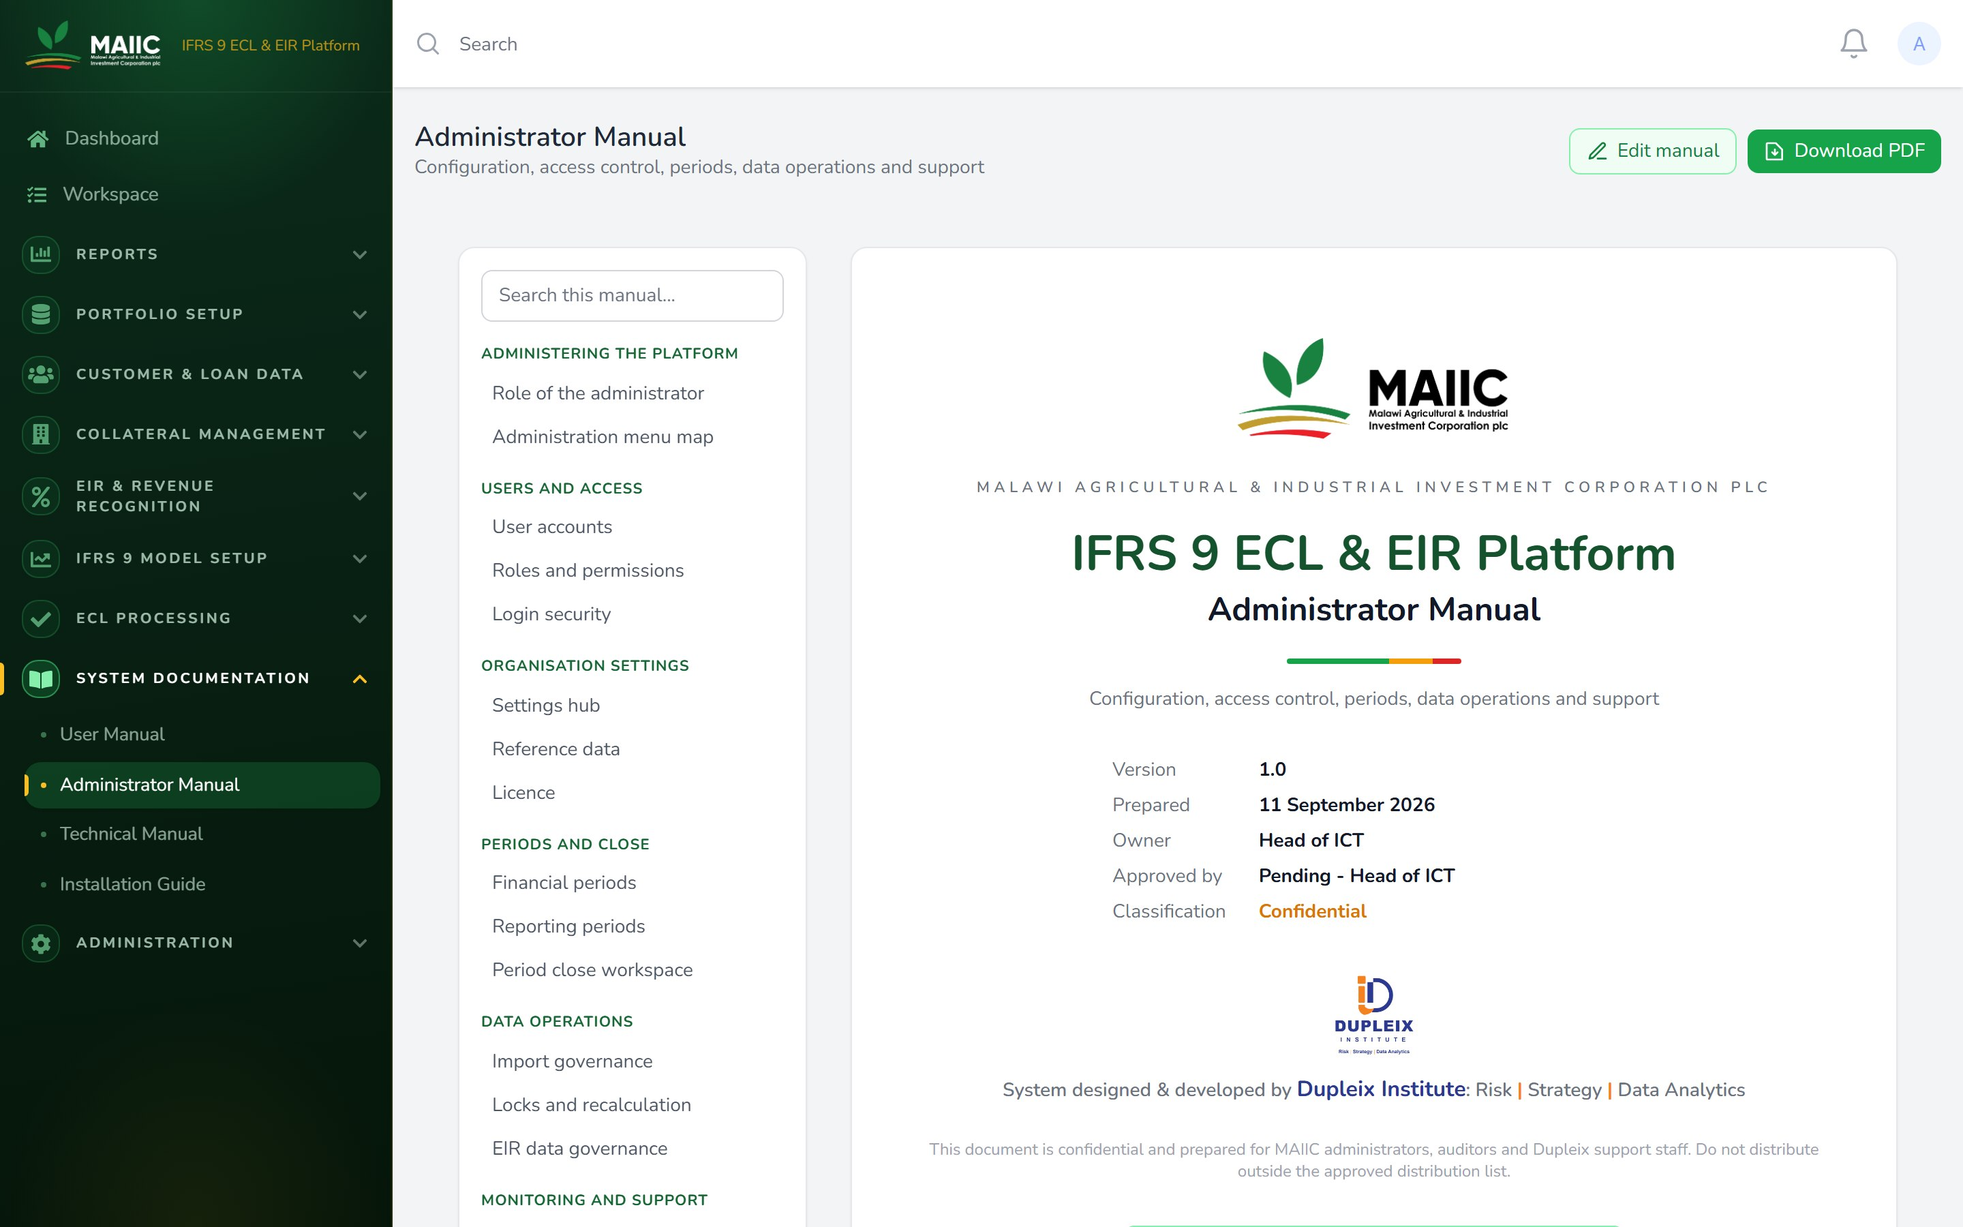
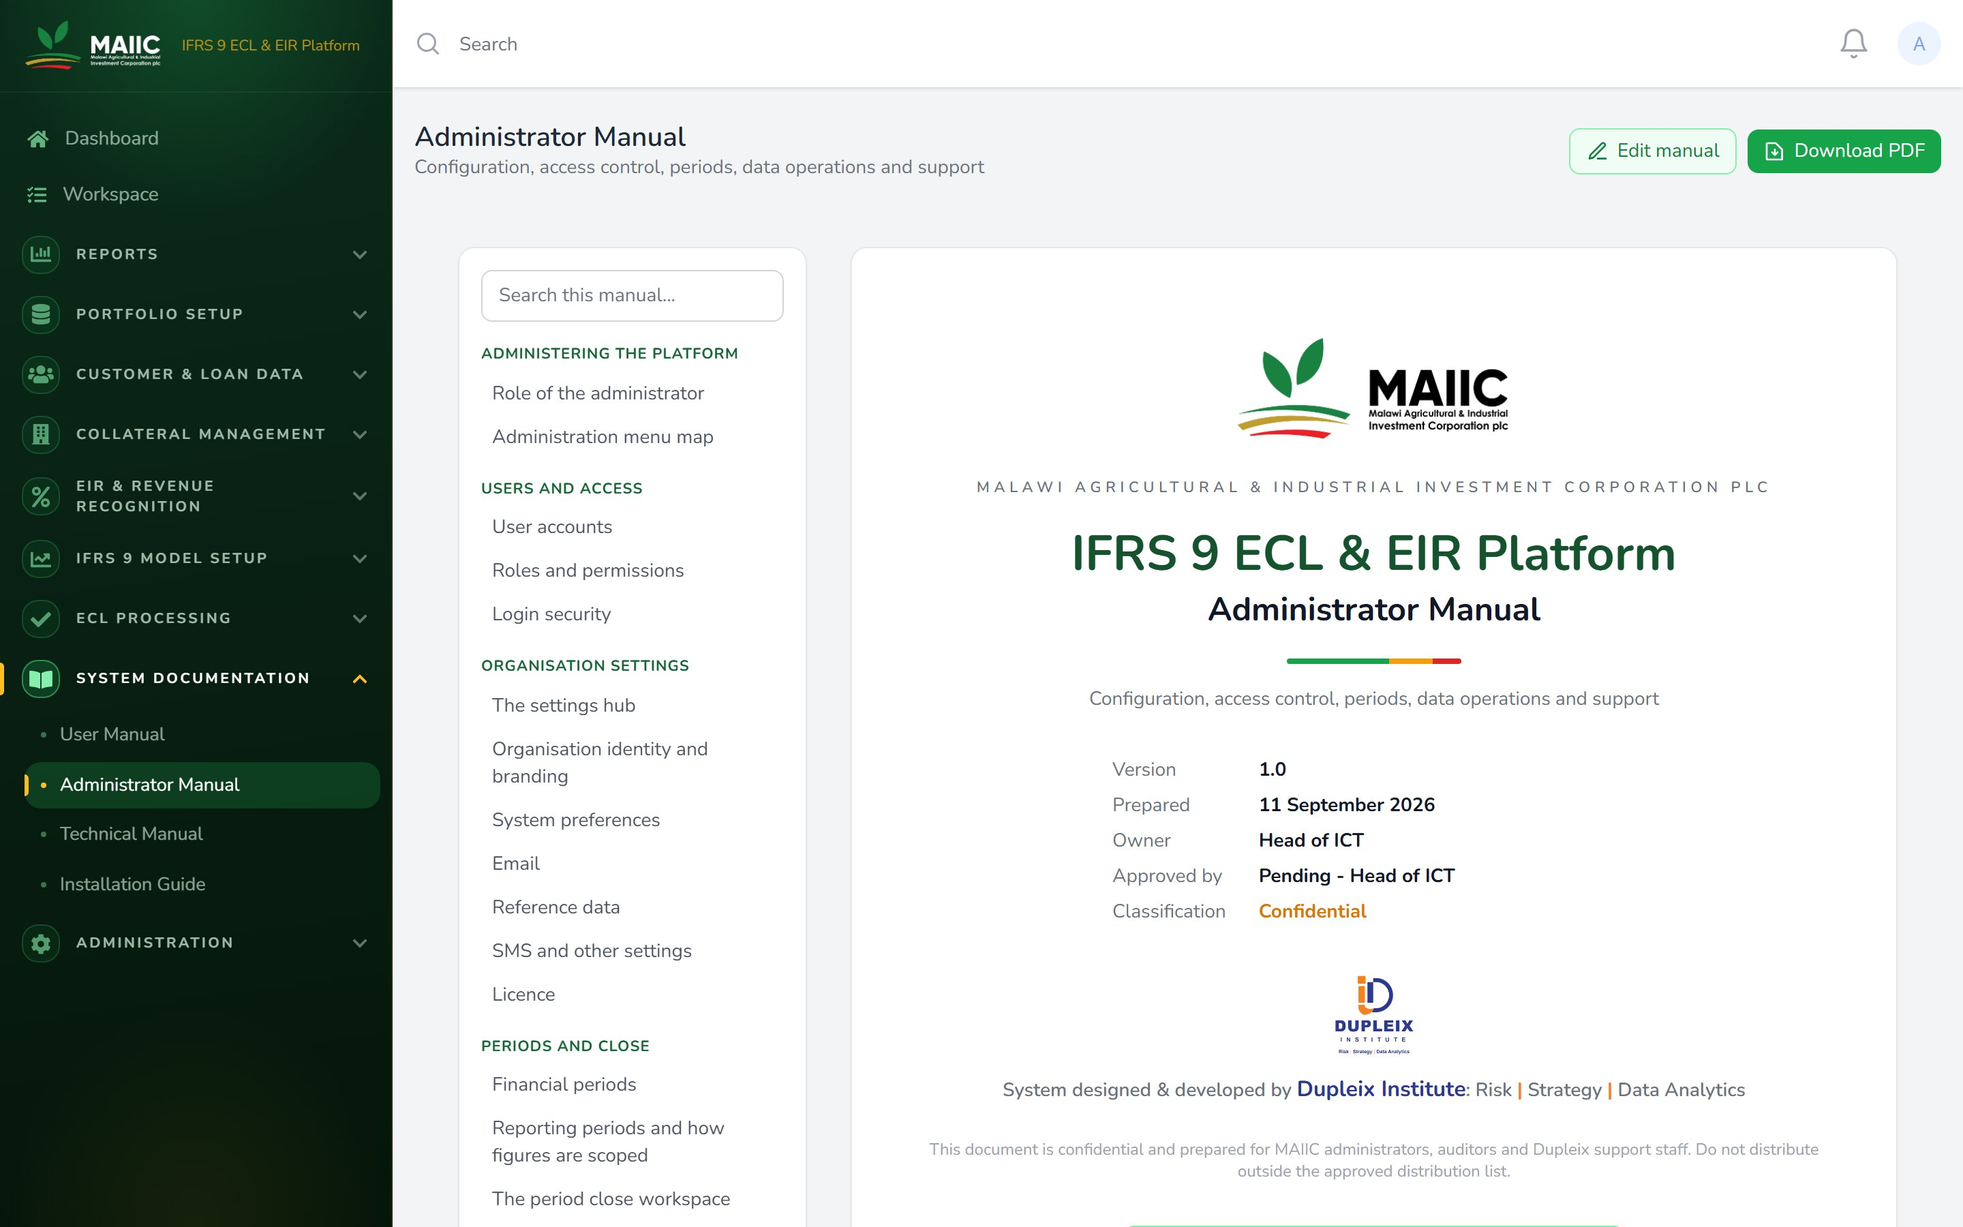
Give every captured screen a figure, and drop the one blank picture
Audited all 121 captured figures for blank content. One was blank:
sicr-customers. The cause was not a broken page but a wrong entry in the
capture list. sicr-triggers.customers is a JSON endpoint that feeds the
Customer ID drop-down, not a screen, so it photographed as a few words of
raw JSON on an empty canvas. Removed it from the capture list, deleted the
image, and dropped the figure from the SICR trigger article, which already
explains the drop-down in words.

The reverse gap was larger: 20 captured figures were never shown in either
manual. Fifteen were report screens whose family article described the
report by name but illustrated only one or two of them. Each report now
carries its own figure: portfolio trend, sector, product group, internal
grade and stage allocation; SICR trigger, ECL reconciliation and gross
movement; PD and agricultural credit risk mitigation; macro scenario; and
IFRS 9 versus RBM, NPL and arrears, concentration and cooperative linkage.

The other five had no article at all. Branches, legal types and banks are
now figures on the reference data article. SMS and Other settings get a new
Administrator Manual article, which says plainly that enabling SMS stores a
setting and sends nothing, and that the Other page holds one dormant link
to the legacy score bands scheduled for removal under ticket #009.

Every captured figure is now used, and no figure is blank. User Manual 75
[…]

Changed region(s): [[0.25, 0.56, 0.375, 0.9956]]

diff --git a/database/seeders/data/help_user_content/09-reports.php b/database/seeders/data/help_user_content/09-reports.php
@@ -41,7 +41,12 @@ return [
             'body' => '<p>Eight reports that answer the basic question: how much do we expect to lose, and where does it sit. All of them use one definition of exposure at default: the carrying amount plus any undrawn commitment multiplied by the utilisation rate.</p><ul><li><b>Executive Summary</b>. A one-page position: exposure, ECL, coverage and loan count as KPI tiles, then the split by stage, by portfolio and by exposure band, with the data-quality checks at the foot. Start here in a review meeting.</li><li><b>ECL Summary by Stage</b>. Total exposure, average probability of default, average loss given default and ECL for Stage 1, Stage 2 and Stage 3, with the totals row.</li><li><b>Portfolio ECL Trend</b>. ECL and coverage over time, split by portfolio, so you can see whether a movement is one segment or the whole book.</li><li><b>ECL by Sector</b>. Exposure, probability, loss rate and ECL by economic sector, matching the sector concentration disclosure in the annual report.</li><li><b>ECL by Product Group</b>. The same view by lending product group.</li><li><b>ECL by Internal Grade</b>. The A to G master scale with the exposure, average probability, average loss rate and ECL in each grade. The bands are A up to 2 per cent, B to 5, C to 10, D to 20, E to 40, F to 100 and G for default.</li><li><b>Account-Level ECL Calculation</b>. The loan-by-loan calculation trail: exposure, probability, loss rate, the multiplication, and the ECL actually booked, for the two hundred largest exposures. This is the report an auditor asks for when they want to re-perform the arithmetic.</li><li><b>Stage Allocation</b>. How every exposure was classified into Stage 1, 2 or 3, with the counts and amounts behind each stage.</li></ul><h4>Common problems</h4><ul><li><b>The account-level trail and the summary disagree.</b> The trail shows the largest two hundred exposures only; the summary covers the whole book.</li><li><b>A grade band is empty.</b> No loan carried a probability in that band for the period. That is a finding, not an error.</li></ul>',
             'images' => [
                 'report-ecl' => 'ECL Summary by Stage with the KPI tiles and the per-stage table',
+                'report-portfolio-trend' => 'Portfolio ECL Trend, showing ECL and coverage over time for each portfolio',
+                'report-sector-ecl' => 'ECL by Sector, the view that matches the sector concentration disclosure',
+                'report-product-group-ecl' => 'ECL by Product Group',
+                'report-grade-ecl' => 'ECL by Internal Grade across the A to G master scale',
                 'report-account-ecl' => 'The account-level ECL calculation trail',
+                'report-stage-allocation' => 'Stage Allocation, with the counts and amounts behind each stage',
             ],
             'routes' => ['ifrs9-reports.executive', 'ifrs9-reports.ecl', 'ifrs9-reports.portfolio-trend', 'ifrs9-reports.sector-ecl', 'ifrs9-reports.product-group-ecl', 'ifrs9-reports.grade-ecl', 'ifrs9-reports.account-ecl', 'ifrs9-reports.stage-allocation'],
         ],
@@ -49,7 +54,10 @@ return [
         'Staging and movement reports' => [
             'body' => '<p>Five reports that explain what changed since the previous period. They all compare the selected period with the one immediately before it in the list of calculated periods.</p><ul><li><b>SICR Trigger</b>. The exposures that a significant increase in credit risk trigger moved, and which trigger fired. Significant increase in credit risk is the test that moves a loan from Stage 1 to Stage 2.</li><li><b>Stage Migration</b>. A grid of movements between stages against the prior period: how much exposure moved from Stage 1 to Stage 2, from Stage 2 to Stage 3, and back again.</li><li><b>Opening to Closing ECL Reconciliation</b>. The bridge from the opening allowance to the closing allowance, showing transfers, remeasurement, new lending and derecognition.</li><li><b>Gross Carrying Amount Movement</b>. The same bridge for the gross book: opening, disbursements, repayments, closing.</li><li><b>ECL Charge or Release</b>. The impairment charge or release that goes to profit or loss for the period, which is the figure the income statement needs.</li></ul><h4>Common problems</h4><ul><li><b>The report says "no prior period".</b> The selected period is the earliest one with a calculation, so there is nothing to compare against.</li><li><b>The movement does not tie to the balance change.</b> Check that both periods used the same calculation level and scope; a portfolio-level run and a total-level run are different populations.</li></ul>',
             'images' => [
+                'report-sicr-trigger' => 'The SICR Trigger report, naming the exposures a trigger moved and which trigger fired',
                 'report-stage-migration' => 'Stage migration against the prior period',
+                'report-ecl-reconciliation' => 'The opening to closing ECL reconciliation in the reports hub',
+                'report-gross-movement' => 'Gross carrying amount movement: opening, disbursements, repayments, closing',
                 'report-ecl-charge' => 'The ECL charge or release for the period',
             ],
             'routes' => ['ifrs9-reports.sicr-trigger', 'ifrs9-reports.stage-migration', 'ifrs9-reports.ecl-reconciliation', 'ifrs9-reports.gross-movement', 'ifrs9-reports.ecl-charge'],
@@ -58,7 +66,9 @@ return [
         'Model component reports' => [
             'body' => '<p>Four reports that show the inputs rather than the answer, so a model reviewer can test each ingredient separately.</p><ul><li><b>PD Report</b>. The twelve-month and lifetime probabilities of default in use, by grade and by segment.</li><li><b>LGD and Collateral</b>. Recovery assumptions, the collateral cover held against each exposure and the net unsecured amount, which is the exposure less the allocated discounted collateral value, floored at zero.</li><li><b>Credit Risk Mitigation (Agri)</b>. The agricultural credit enhancements MAIIC uses, off-take agreements, warehouse receipts, group guarantees and anchor-buyer cover, set against the loss given default they support.</li><li><b>EAD and Off-Balance Sheet</b>. Exposure at default including undrawn commitments, showing the utilisation rate applied as the credit conversion factor.</li></ul><h4>Common problems</h4><ul><li><b>Net unsecured equals the full exposure.</b> No collateral has been allocated to that exposure. Allocation happens under Collateral Management, not automatically.</li><li><b>The credit conversion factor looks like one hundred per cent everywhere.</b> No utilisation rate is recorded, so full utilisation is assumed. There is no separate conversion-factor model yet.</li></ul>',
             'images' => [
+                'report-pd' => 'The PD report, showing the twelve-month and lifetime probabilities in use by grade and segment',
                 'report-lgd-collateral' => 'LGD and collateral cover with the net unsecured column',
+                'report-crm-agri' => 'Credit Risk Mitigation (Agri), setting the agricultural enhancements against the loss given default they support',
                 'report-ead' => 'Exposure at default including off-balance-sheet commitments',
             ],
             'routes' => ['ifrs9-reports.pd-report', 'ifrs9-reports.lgd-collateral', 'ifrs9-reports.crm-agri', 'ifrs9-reports.ead-report'],
@@ -67,6 +77,7 @@ return [
         'Forward-looking reports' => [
             'body' => '<p>Two reports that show the economic assumptions behind the provision, and therefore how much of the expected loss comes from the outlook rather than from what has already happened. IFRS 9 requires an expected credit loss to reflect reasonable and supportable forward-looking information, so these two reports are how that requirement is evidenced.</p><ul><li><b>Macro Scenario and Forward-Looking</b>. The macroeconomic assumptions in force for the period and the scenarios built on them.</li><li><b>Scenario-Weighted ECL</b>. The probability-weighted expected credit loss across the base, upside and downside scenarios, with the weight applied to each and the weighted total at the foot. Each scenario column shows the loss that scenario alone would produce, so you can see the spread as well as the answer.</li></ul><h4>Reading them together</h4><ul><li>Start with Macro Scenario to confirm the assumptions in force are the ones the committee approved for the period, then read Scenario-Weighted ECL to see what those assumptions cost.</li><li>Compare the weighted figure with the base scenario alone. The gap is the price of prudence, and it is the number a reviewer will ask you to justify.</li><li>Compare a probability of default before the forward-looking adjustment with the one after it, by running the ECL calculation on both bases, to see the adjustment separately from the underlying model.</li></ul><h4>Common problems</h4><ul><li><b>The report shows placeholder rows.</b> The macro tables for the period are empty. Enter the macro elements and their values under IFRS 9 Model Setup before relying on these reports.</li><li><b>The weighted figure equals the base figure.</b> Only one scenario carries a weight. Check the scenario profile weights sum to one hundred per cent across three scenarios.</li></ul>',
             'images' => [
+                'report-macro-scenario' => 'Macro Scenario and Forward-Looking, listing the assumptions in force for the period',
                 'report-scenario-ecl' => 'Scenario-weighted ECL across the approved scenarios',
             ],
             'routes' => ['ifrs9-reports.macro-scenario', 'ifrs9-reports.scenario-ecl'],
@@ -76,7 +87,11 @@ return [
             'body' => '<p>Six reports written for the Reserve Bank of Malawi Financial Asset Classification Directive of 2018, and for the comparison between that directive and IFRS 9. The directive bands are: Pass, nought to thirty days past due, one per cent minimum provision; Special Mention, thirty one to eighty nine days, one per cent; Substandard, ninety to one hundred and seventy nine days, twenty per cent; Doubtful, one hundred and eighty to three hundred and sixty four days, fifty per cent; Loss, three hundred and sixty five days and over, one hundred per cent.</p><ul><li><b>RBM Asset Classification</b>. Every exposure placed in its prudential class by days past due, with the minimum provision the directive requires. Its KPI tiles include the non-performing loan ratio, which is Substandard plus Doubtful plus Loss exposure divided by total exposure, and the RBM provision total against the IFRS 9 ECL.</li><li><b>IFRS 9 Stage versus RBM Mapping</b>. A cross-reference of the two systems, showing where a Stage 2 exposure sits in the prudential classes and vice versa.</li><li><b>NPL and Arrears</b>. Non-performing loans and an ageing of arrears.</li><li><b>Provision Comparison</b>. The IFRS 9 expected credit loss against the RBM prudential provision, with the shortfall or excess. Where the directive requires more than IFRS 9, the difference is the regulatory reserve.</li><li><b>Concentration and Large Exposures</b>. Single-name and portfolio concentration with the Herfindahl-Hirschman index, a standard concentration measure where a value above 2,500 counts as highly concentrated and the tile turns red. The large-exposure threshold is set by the control at the top of the page.</li><li><b>Cooperative and Anchor Linkage</b>. Correlated exposure grouped by cooperative or anchor buyer, so contagion through a single off-taker is visible. The loss estimate here is deliberately simple; full asset-correlation modelling is a separate piece of work.</li></ul><h4>Common problems</h4><ul><li><b>The NPL ratio and Stage 3 do not match.</b> They measure different things. Stage 3 is the IFRS 9 credit-impaired population; NPL is the directive\'s ninety-day classification. The IFRS 9 versus RBM report exists to explain the difference.</li><li><b>Concentration looks extreme.</b> Check the threshold in the control at the top before drawing a conclusion; a low threshold pulls many exposures into the large-exposure table.</li></ul>',
             'images' => [
                 'report-rbm-classification' => 'RBM asset classification with the prudential bands and provision rates',
+                'report-ifrs9-vs-rbm' => 'IFRS 9 Stage versus RBM Mapping, cross-referencing the two classification systems',
+                'report-npl-arrears' => 'NPL and Arrears, with the ageing of overdue amounts',
                 'report-provision-comparison' => 'IFRS 9 ECL against the RBM prudential provision',
+                'report-concentration' => 'Concentration and Large Exposures with the Herfindahl-Hirschman index and the threshold control',
+                'report-coop-linkage' => 'Cooperative and Anchor Linkage, grouping correlated exposure by off-taker',
             ],
             'routes' => ['ifrs9-reports.rbm-classification', 'ifrs9-reports.ifrs9-vs-rbm', 'ifrs9-reports.npl-arrears', 'ifrs9-reports.provision-comparison', 'ifrs9-reports.concentration', 'ifrs9-reports.coop-linkage'],
         ],

diff --git a/database/seeders/data/help_admin_content/03-organisation-settings.php b/database/seeders/data/help_admin_content/03-organisation-settings.php
@@ -70,8 +70,41 @@ return [
                 'currencies' => 'The currency list with the organisation currency',
                 'sector-types' => 'Sector types, which drive the concentration reports',
                 'chart-of-accounts' => 'The chart of accounts',
+                'branches' => 'Branches, the organisation structure used for grouping',
+                'legal-types' => 'Legal types, a supporting list on client records',
+                'banks' => 'Banks, a supporting list on client records',
             ],
             'routes' => ['currencies.index', 'chart_of_accounts.index', 'branches.index', 'industry_types.index', 'portfolios.index', 'groups.index', 'legal_types.index', 'banks.index'],
+        ],
+
+        'SMS and other settings' => [
+            'body' => '<p>Two pages sit at the foot of the settings hub. Both are short, and both are worth understanding because what they do is easy to overstate.</p>'
+                . '<h4>Settings, then SMS</h4>'
+                . '<ul>'
+                . '<li><b>SMS Enabled</b>, a <b>Yes</b> or <b>No</b> selector.</li>'
+                . '<li><b>Default SMS Gateway</b>, which appears only when SMS Enabled is set to Yes, and lists the gateways the installation knows about.</li>'
+                . '<li>A <b>Save</b> button.</li>'
+                . '</ul>'
+                . '<p>Be clear about what this does today: it stores the two values. Nothing in the IFRS 9 workflow sends a text message. Notifications go to the bell in the header and are held in the database, as described under Notifications. Turning SMS on therefore changes a stored setting and nothing a user will see. Leave it off unless Dupleix has delivered a gateway integration for MAIIC and told you to enable it.</p>'
+                . '<h4>Settings, then Other</h4>'
+                . '<p>This page holds a single link, <b>Loan Application Score Bands</b>, marked with a cogs icon. It opens a small screen where scoring bands are defined by name with a minimum and a maximum, and the platform refuses bands that overlap.</p>'
+                . '<p>It belongs to the legacy loan-application credit-scoring feature, which is not part of the IFRS 9 and EIR scope MAIIC contracted for. Removing that feature is logged as ticket #009. Until it is removed the page stays visible, so treat it as dormant: changing a band affects nothing in the ECL or EIR figures.</p>'
+                . '<h4>Common problems</h4>'
+                . '<ul>'
+                . '<li><b>SMS is switched on but no messages arrive.</b> Expected. There is no sending integration; only the setting is stored.</li>'
+                . '<li><b>The Other page looks empty.</b> It holds one link. That is the whole page.</li>'
+                . '<li><code>Bands overlap.</code> Two score bands claim the same value. Adjust the minimum or maximum so the ranges meet without overlapping.</li>'
+                . '</ul>',
+            'steps' => [
+                'Open Settings, then SMS, and leave SMS Enabled set to No unless Dupleix has delivered a gateway for MAIIC.',
+                'Open Settings, then Other, to see the one remaining legacy link.',
+                'Raise a ticket rather than configuring the score bands; the feature is outside the contracted scope and is scheduled for removal.',
+            ],
+            'images' => [
+                'settings-sms' => 'The SMS settings page with the enable selector and the gateway list',
+                'settings-other' => 'The Other settings page and its single legacy link',
+            ],
+            'routes' => ['settings.sms', 'settings.other'],
         ],
 
         'Licence' => [

diff --git a/database/seeders/data/help_user_content/07a-ifrs9-model-setup.php b/database/seeders/data/help_user_content/07a-ifrs9-model-setup.php
@@ -239,7 +239,6 @@ return [
             ],
             'images' => [
                 'sicr-triggers' => 'The SICR Trigger Alerts page with the Trigger Alert button and the Trigger History table columns',
-                'sicr-customers' => 'The raw reply of the customer search service that fills the Customer ID drop-down: each entry carries the customer identifier and its loan count',
             ],
             'routes' => ['sicr-triggers.index', 'sicr-triggers.store', 'sicr-triggers.update-loan-book', 'sicr-triggers.remove-alert', 'sicr-triggers.customers'],
         ],

diff --git a/app/Console/Commands/CaptureManualScreenshotsCommand.php b/app/Console/Commands/CaptureManualScreenshotsCommand.php
@@ -78,7 +78,6 @@ class CaptureManualScreenshotsCommand extends Command
         'sicr-groups.index'           => 'sicr-groups',
         'sicr-items.index'            => 'sicr-items',
         'sicr-triggers.index'         => 'sicr-triggers',
-        'sicr-triggers.customers'     => 'sicr-customers',
         // PD
         'transition-profiles.index'   => 'tprofiles',
         'transition-profiles.create'  => 'tprofiles-create',
